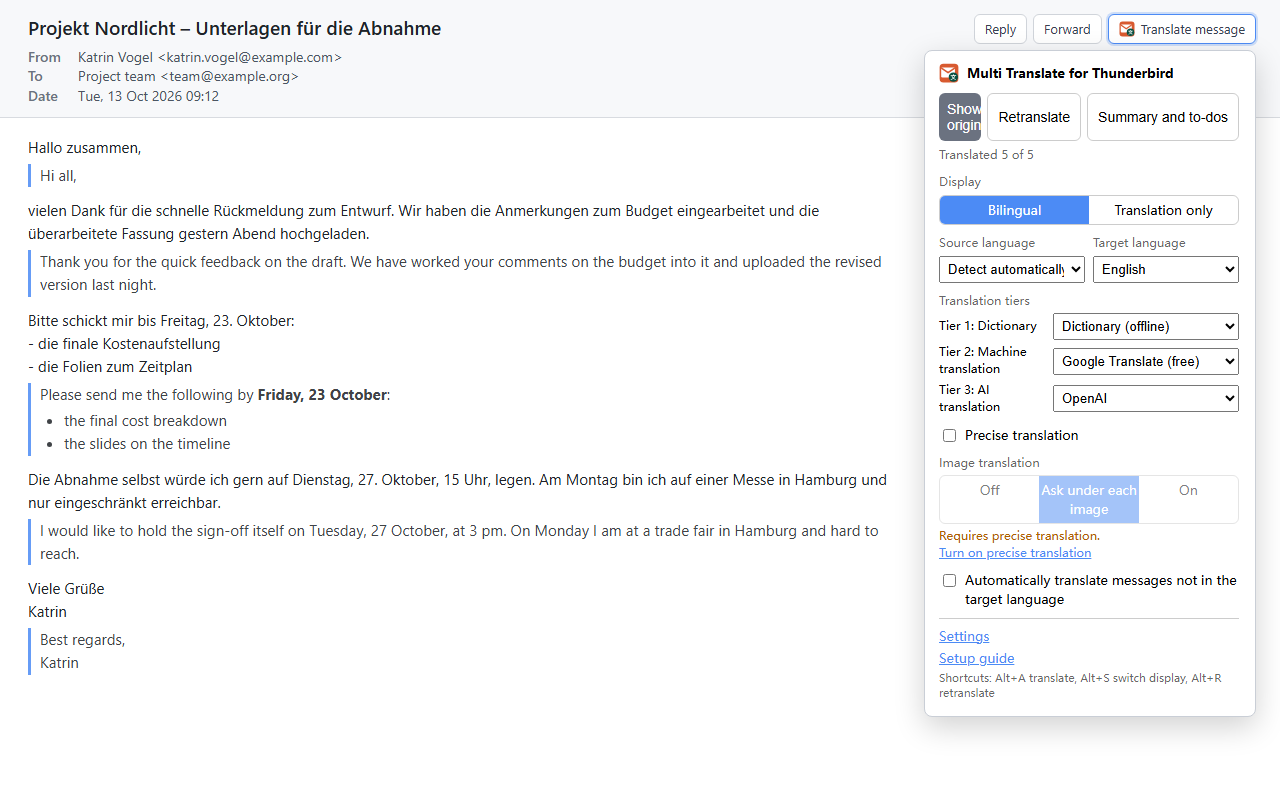
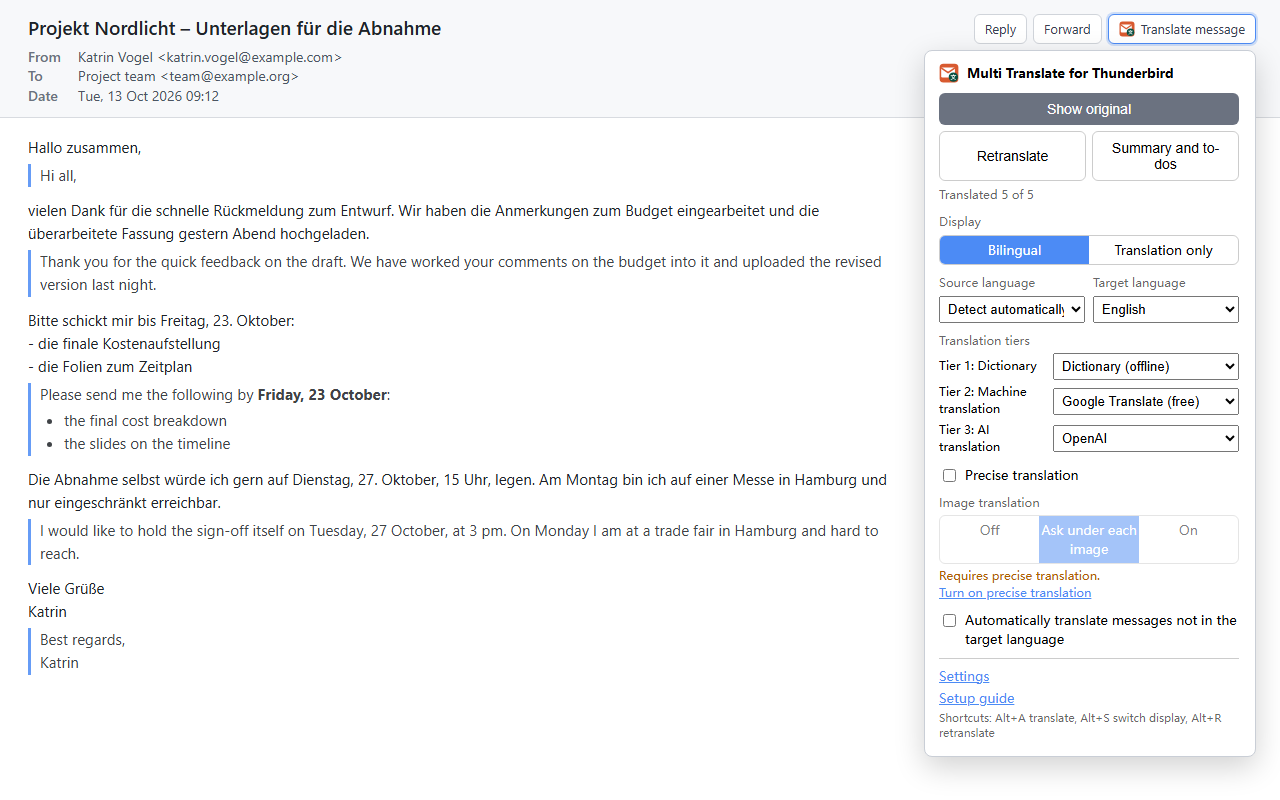
Popup: the main button on a row of its own, so its label is never cut

Changed region(s): [[0.7188, 0.0938, 0.9688, 0.9688]]

diff --git a/static/popup.css b/static/popup.css
@@ -22,12 +22,13 @@ header {
 
 .actions {
   display: flex;
+  flex-wrap: wrap;
   gap: 6px;
 }
 
+/* The main button has a row of its own, so its label is never cut; the others share the next row. */
 button.primary {
-  flex: 1;
-  min-width: 0;
+  flex: 1 0 100%;
   padding: 8px;
   border: 0;
   border-radius: 6px;
@@ -42,6 +43,7 @@ button.primary.active {
 }
 
 button.secondary {
+  flex: 1;
   padding: 8px 10px;
   border: 1px solid var(--border);
   border-radius: 6px;
